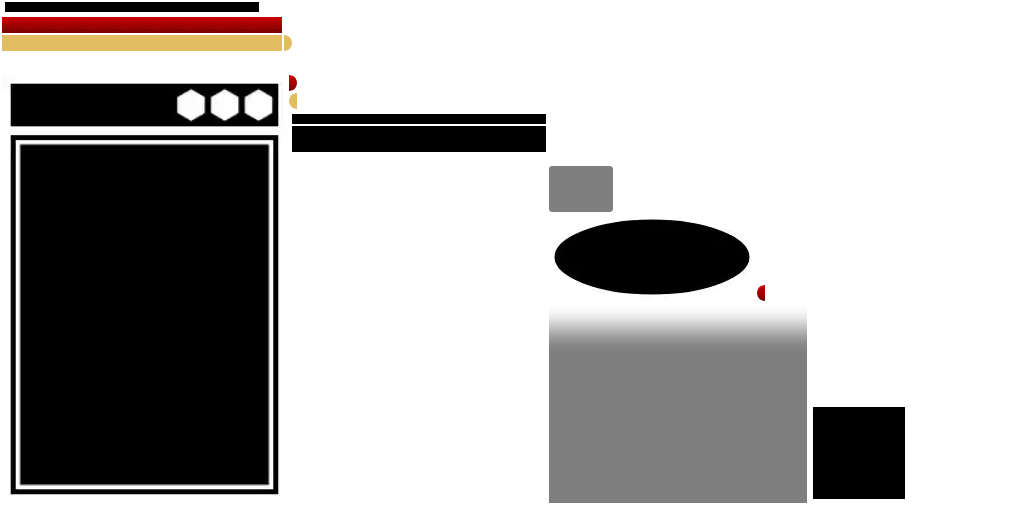
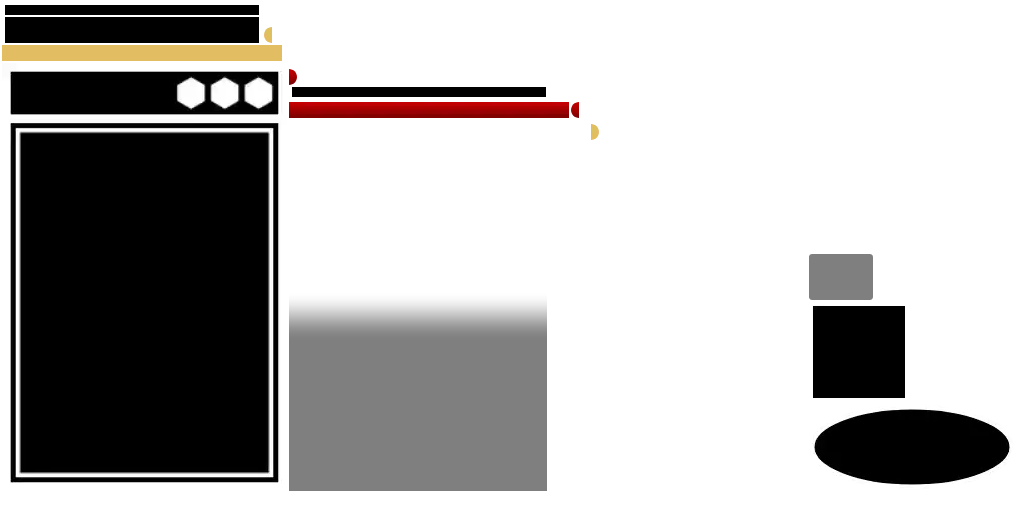
공부중

diff --git a/core/src/com/fastcat/assemble/screens/battle/MemberCardDisplay.java b/core/src/com/fastcat/assemble/screens/battle/MemberCardDisplay.java
@@ -6,15 +6,23 @@ import static com.fastcat.assemble.handlers.FontHandler.BF_CARD_NAME;
 import static com.fastcat.assemble.handlers.FontHandler.BF_SUB_DESC;
 
 import com.badlogic.gdx.graphics.Color;
+import com.badlogic.gdx.graphics.Cursor;
 import com.badlogic.gdx.graphics.g2d.Batch;
 import com.badlogic.gdx.math.Interpolation;
+import com.badlogic.gdx.scenes.scene2d.Actor;
 import com.badlogic.gdx.scenes.scene2d.InputEvent;
+import com.badlogic.gdx.scenes.scene2d.InputListener;
+import com.badlogic.gdx.scenes.scene2d.Touchable;
 import com.badlogic.gdx.scenes.scene2d.actions.Actions;
 import com.badlogic.gdx.scenes.scene2d.actions.MoveToAction;
+import com.badlogic.gdx.scenes.scene2d.ui.Button;
+import com.badlogic.gdx.scenes.scene2d.ui.Cell;
 import com.badlogic.gdx.scenes.scene2d.ui.Image;
 import com.badlogic.gdx.scenes.scene2d.ui.ImageButton;
 import com.badlogic.gdx.scenes.scene2d.ui.Label;
 import com.badlogic.gdx.scenes.scene2d.ui.Skin;
+import com.badlogic.gdx.scenes.scene2d.ui.Stack;
+import com.badlogic.gdx.scenes.scene2d.ui.Table;
 import com.badlogic.gdx.scenes.scene2d.ui.TextTooltip;
 import com.badlogic.gdx.scenes.scene2d.ui.Window;
 import com.badlogic.gdx.scenes.scene2d.ui.Label.LabelStyle;
@@ -28,16 +36,18 @@ import com.fastcat.assemble.abstracts.AbstractMember;
 import com.fastcat.assemble.abstracts.AbstractSynergy;
 import com.fastcat.assemble.handlers.FileHandler;
 import com.fastcat.assemble.handlers.FontHandler;
+import com.fastcat.assemble.handlers.InputHandler;
 import com.fastcat.assemble.handlers.FontHandler.FontData;
 
-public class MemberCardDisplay extends ImageButton {
+public class MemberCardDisplay extends Table {
 
     private final Image memberImage;
     private final Image memberFrame;
+    private final Image descBg;
     private final Label memberDesc;
     private final Label memberName;
 
-    private ImageButton[] synergies;
+    private SynergyIcon[] synergies;
 
     private float timer = 0;
 
@@ -46,26 +56,30 @@ public class MemberCardDisplay extends ImageButton {
     private DragListener dragListener;
 
     public MemberCardDisplay(AbstractMember member) {
-        super(FileHandler.getUI().getDrawable("cardBg"));
-        //align(Align.center);
+        setBackground(FileHandler.getUI().getDrawable("cardBg"));
+        setTouchable(Touchable.enabled);
+        setBounds(0, 0, 285, 428);
+        align(Align.center);
         this.member = member;
         memberImage = new Image(FileHandler.getMember(), member.id);
-        memberImage.setPosition(13.5f, 14);
         memberFrame = new Image(FileHandler.getUI(), "cardFrame");
-        memberFrame.setPosition(13.5f, 14);
-        LabelStyle ls = new LabelStyle(BF_CARD_DESC, WHITE);
-        ls.background = FileHandler.getUI().getDrawable("cardDesc");
-        memberDesc = new Label(member.desc, ls);
+        descBg = new Image(FileHandler.getUI(), "cardDescBg");
+        memberDesc = new Label(member.desc, new LabelStyle(BF_CARD_DESC, WHITE));
         memberDesc.setWrap(true);
-        memberDesc.setAlignment(Align.left);
-        memberDesc.setPosition(13.5f, 14);
         memberName = new Label(member.getName(), new LabelStyle(BF_CARD_NAME, WHITE));
         memberName.setPosition(13.5f, 385);
         memberName.setAlignment(Align.left);
-        addActor(memberImage);
-        addActor(memberFrame);
-        addActor(memberDesc);
-        addActor(memberName);
+
+        Stack stack = new Stack(memberImage, memberFrame, descBg, memberDesc);
+
+
+        add(memberName).expandX().align(Align.left).height(60).padLeft(14);
+        for(int i = 0; i < member.synergy.length; i++) {
+            add(new SynergyIcon(member, i)).align(Align.center).width(48).height(48);
+        }
+        row();
+        add(stack).expand().pad(14, 14, 14, 14);
+
         dragListener = new DragListener() {
 	        public void drag (InputEvent event, float sx, float sy, int pointer) {
                 if(!member.canUse() && sy > (getHeight() * 0.75f)) {
@@ -84,11 +98,12 @@ public class MemberCardDisplay extends ImageButton {
 	        }
         };
         addListener(dragListener);
+
     }
 
     @Override
 	public void act (float delta) {
-        if(isOver()) {
+        if(isTouchFocusTarget()) {
             timer += delta;
             if(timer > 1) timer = 1;
         } else {
@@ -113,17 +128,27 @@ public class MemberCardDisplay extends ImageButton {
         private static final FontData NAME = FontHandler.SYN_NAME;
         private static final FontData AMOUNT = FontHandler.SYN_DESC;
 
+        private AbstractMember owner;
         private AbstractSynergy synergy;
+        private int index;
         private TextTooltip tooltip;
 
-        public SynergyIcon() {
+        public SynergyIcon(AbstractMember m, int index) {
             super(FileHandler.getSynergy().getDrawable("Isedol"));
+            owner = m;
+            this.index = index;
+            synergy = m.synergy[index];
+        }
+
+        @Override
+        public void act(float delta) {
+            if(synergy != owner.synergy[index]) setSynergy(owner.synergy[index]);
+            super.act(delta);
         }
 
         public void setSynergy(AbstractSynergy s) {
             synergy = s;
-            Drawable d = FileHandler.getSynergy().getDrawable(synergy.id);
-            setStyle(new ImageButtonStyle(d, d, d, d, d, d));
+            setBackground(FileHandler.getSynergy().getDrawable(synergy.id));
 
             String text = synergy.name + "\n" + synergy.desc;
             for(int i = 0; i < synergy.gradeAmount.length; i++) {
@@ -132,10 +157,12 @@ public class MemberCardDisplay extends ImageButton {
                 else text += HINT + "\n(" + amt + ") " + synergy.gradeDesc[i] + WHITE;
             }
 
+            clearListeners();
             TextTooltipStyle tts = new TextTooltipStyle(new LabelStyle(BF_SUB_DESC, Color.WHITE), FileHandler.getUI().getDrawable("tile"));
             tooltip = new TextTooltip(text, tts);
             
             tooltip.setInstant(true);
+            addListener(tooltip);
         }
     }
 }

diff --git a/core/src/com/fastcat/assemble/screens/battle/BattleStage.java b/core/src/com/fastcat/assemble/screens/battle/BattleStage.java
@@ -33,8 +33,7 @@ public class BattleStage extends Stage {
         MemberCardDisplay md = new MemberCardDisplay(new Jingburger());
         //handTable.addActor(md);
         handTable.setFillParent(true);
-        handTable.center();
-        handTable.addActor(md);
+        handTable.add(md).center();
         handTable.setScale(InputHandler.scaleA);
         setDebugAll(true);
     }
